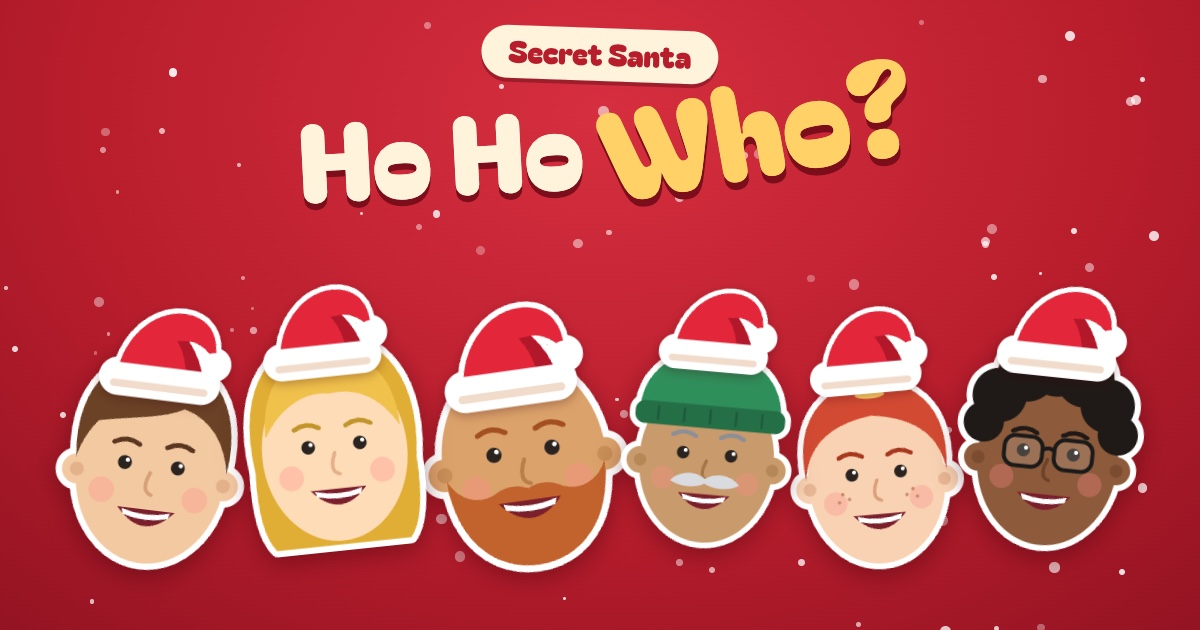
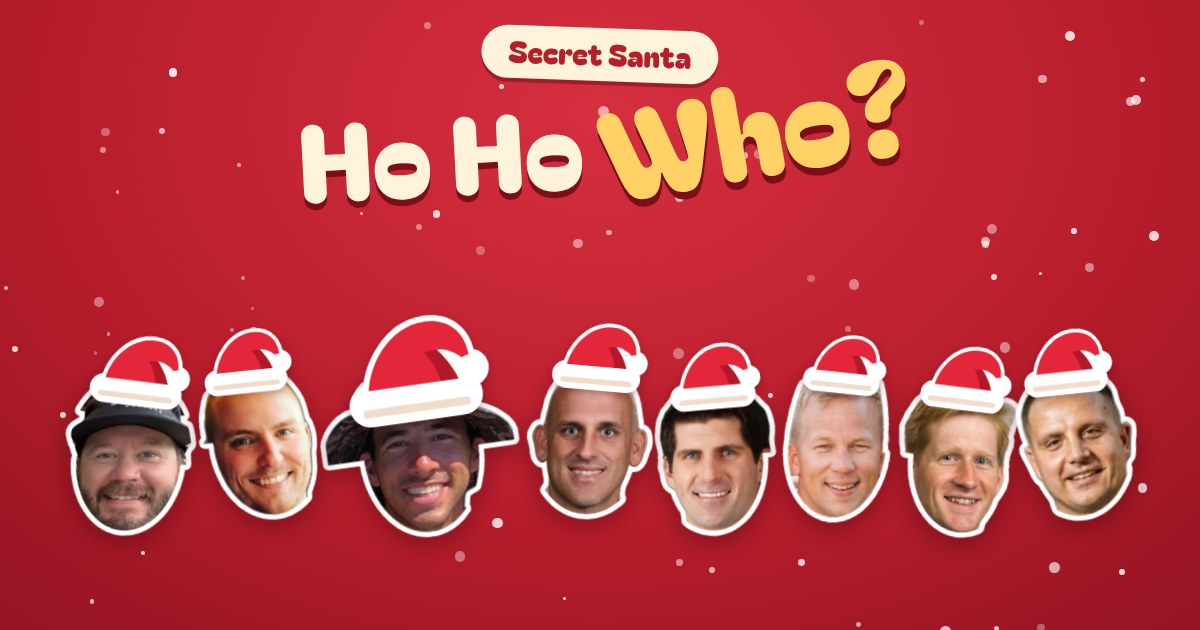
Replace example cartoon heads with the group's photos
Cut out eight heads (Connor, Kyle, Nick, Patrick, Ryan, Scott, Steven, TJ)
from the uploaded headshots, rewrote heads/heads.js, removed the example
SVG heads and regenerated share.jpg.

Claude-Session: https://claude.ai/code/session_01BbXcRwtH9SZmiqyowdcvQE

diff --git a/heads/heads.js b/heads/heads.js
@@ -9,12 +9,13 @@
 //   crown  where the top of the head is, as a fraction of the picture [across, down]: the hat sits here
 //   roll   how far the head is tilted in the picture, in degrees (clockwise)
 //
-// These six are placeholders so the site works out of the box.
 window.HEADS = [
-  { id: 'alex',  name: 'Alex',  src: 'heads/alex.svg',  w: 364, h: 424, crown: [0.5, 0.047], roll: 0, example: true },
-  { id: 'jo',    name: 'Jo',    src: 'heads/jo.svg',    w: 364, h: 436, crown: [0.5, 0.041], roll: 0, example: true },
-  { id: 'max',   name: 'Max',   src: 'heads/max.svg',   w: 364, h: 387, crown: [0.5, 0.047], roll: 0, example: true },
-  { id: 'pat',   name: 'Pat',   src: 'heads/pat.svg',   w: 364, h: 472, crown: [0.5, 0.038], roll: 0, example: true },
-  { id: 'riley', name: 'Riley', src: 'heads/riley.svg', w: 364, h: 462, crown: [0.5, 0.039], roll: 0, example: true },
-  { id: 'sam',   name: 'Sam',   src: 'heads/sam.svg',   w: 380, h: 450, crown: [0.5, 0.036], roll: 0, example: true },
+  { id: 'connor',  name: 'Connor',  src: 'heads/connor.webp',  w: 434, h: 504, crown: [0.5, 0.004], roll: 0 },
+  { id: 'kyle',    name: 'Kyle',    src: 'heads/kyle.webp',    w: 390, h: 504, crown: [0.47, 0.042], roll: 0 },
+  { id: 'nick',    name: 'Nick',    src: 'heads/nick.webp',    w: 631, h: 504, crown: [0.525, 0.004], roll: 0 },
+  { id: 'patrick', name: 'Patrick', src: 'heads/patrick.webp', w: 415, h: 504, crown: [0.516, 0.026], roll: 0 },
+  { id: 'ryan',    name: 'Ryan',    src: 'heads/ryan.webp',    w: 401, h: 504, crown: [0.524, 0.046], roll: 0 },
+  { id: 'scott',   name: 'Scott',   src: 'heads/scott.webp',   w: 360, h: 504, crown: [0.495, 0.046], roll: 0 },
+  { id: 'steven',  name: 'Steven',  src: 'heads/steven.webp',  w: 394, h: 504, crown: [0.509, 0.046], roll: 0 },
+  { id: 'tj',      name: 'TJ',      src: 'heads/tj.webp',      w: 394, h: 504, crown: [0.473, 0.044], roll: 0 },
 ];
